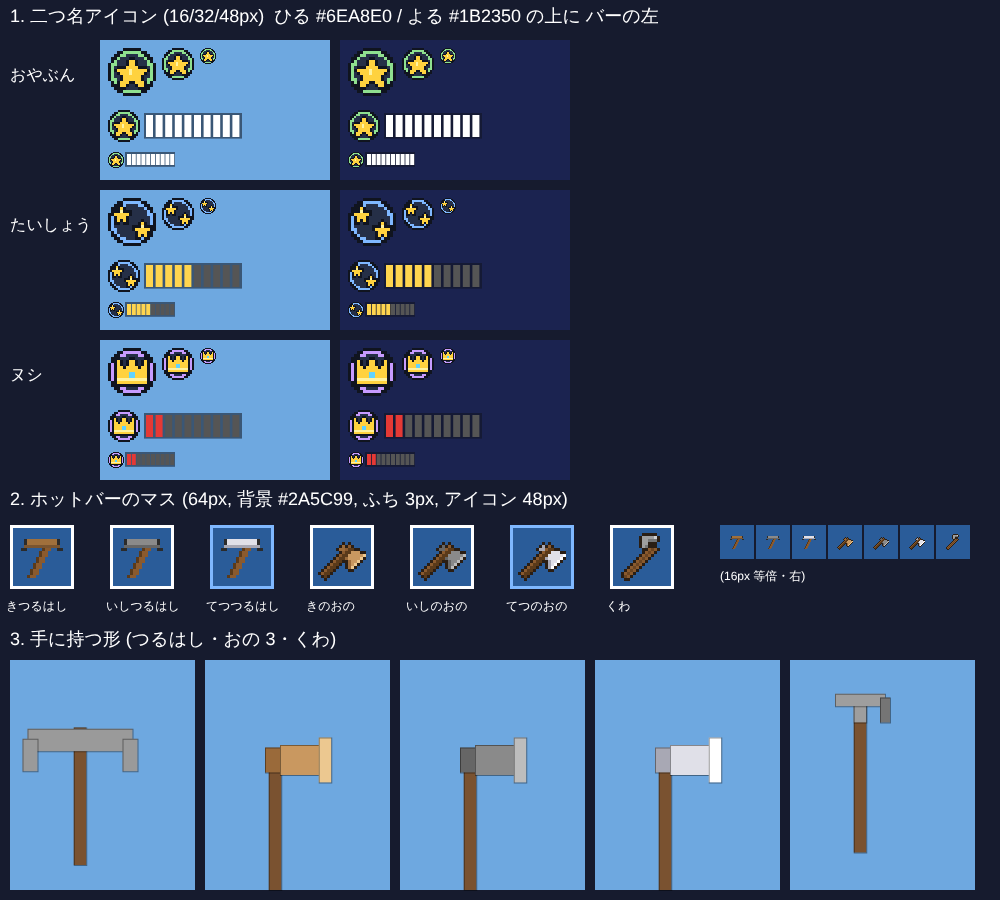
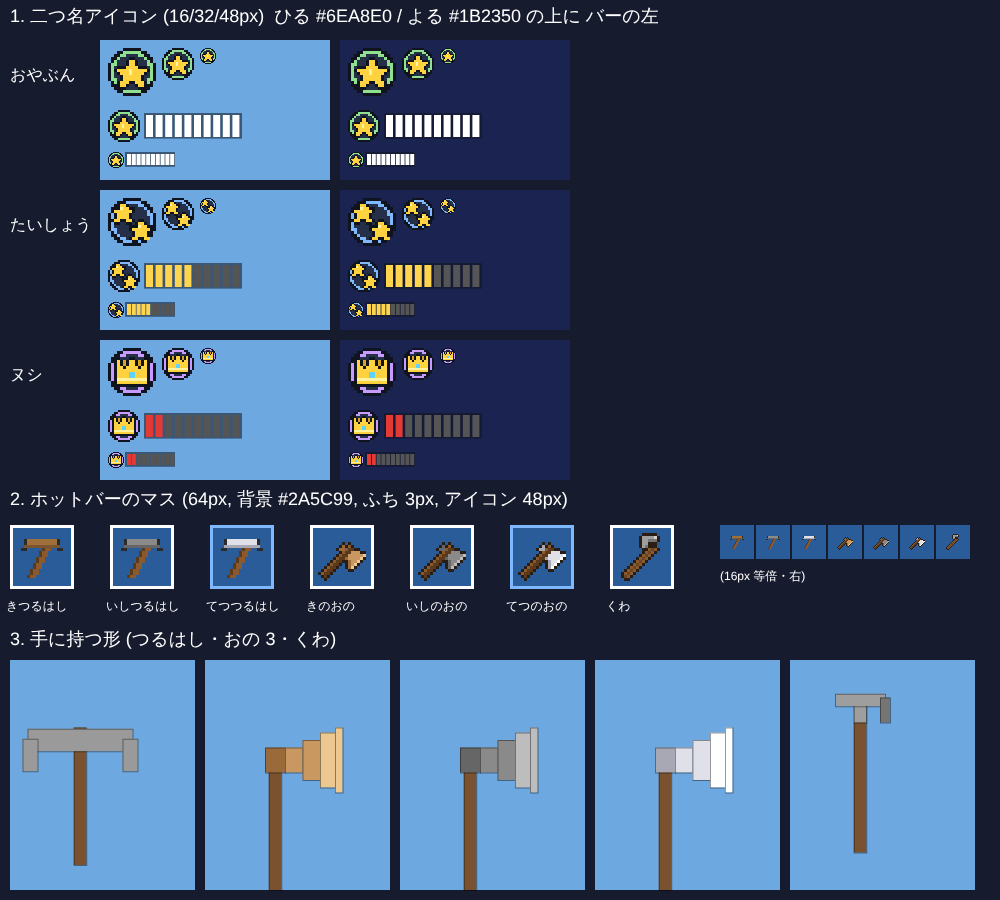
ART-BAL: レビュー指摘 A1-A3（かんむりのとげの間・たいしょうの星を大きく・おのの刃をくさびに）
Claude-Session: https://claude.ai/code/session_01SCqxFwiHtGmCBZxfDVkfL1

diff --git a/src/ui/itemArtBal.ts b/src/ui/itemArtBal.ts
@@ -54,18 +54,19 @@ const STAR1 = [
   '.KKK....KKK.',
 ];
 const STAR_S = [
-  '...K...',
-  '..KYK..',
-  'KKKLKKK',
-  'KYYYYYK',
-  '.KYYYK.',
-  '.KYKYK.',
-  '.KK.KK.',
+  '...KK...',
+  '..KYYK..',
+  'KKKLYYKK',
+  'KYYYYYYK',
+  '.KYYYYK.',
+  '.KYYYYK.',
+  'KYYKKYYK',
+  '.KK..KK.',
 ];
 const CROWN = [
   '.K...KK...K.',
-  'KYK.KYYK.KYK',
-  'KYK.KYYK.KYK',
+  'KYKDKYYKDKYK',
+  'KYKDKYYKDKYK',
   'KYYKYYYYKYYK',
   'KYYYYYYYYYYK',
   'KYYYYBBYYYYK',
@@ -74,7 +75,7 @@ const CROWN = [
   'KYYYYYYYYYYK',
   '.KKKKKKKKKK.',
 ];
-const GOLD = { K: INK, Y: 0xffd23f, L: 0xfff3a0, B: 0x5fd3ff };
+const GOLD = { K: INK, D: 0xd9a520, Y: 0xffd23f, L: 0xfff3a0, B: 0x5fd3ff };
 /** 内の ふちの色 = めずらしさ の色（緑・青・紫） */
 export const NICK_RING: Record<NickTier, number> = { oyabun: 0x8fe08f, taisho: 0x7fb8ff, nushi: 0xc79bff };
 
@@ -90,10 +91,13 @@ export function nickIconPixels(tier: NickTier): Rgba[] {
     }
   if (tier === 'oyabun') stamp(p, STAR1, 2, 3, GOLD);
   if (tier === 'taisho') {
-    stamp(p, STAR_S, 1, 2, GOLD);
-    stamp(p, STAR_S, 8, 7, GOLD);
+    stamp(p, STAR_S, 1, 1, GOLD);
+    stamp(p, STAR_S, 7, 7, GOLD);
   }
   if (tier === 'nushi') stamp(p, CROWN, 2, 3, GOLD);
+  // バッジの まるから はみ出た ドットは 消す
+  for (let y = 0; y < S; y++)
+    for (let x = 0; x < S; x++) if (Math.hypot(x + 0.5 - 8, y + 0.5 - 8) > 8.1) p[y * S + x] = CLEAR;
   return p;
 }
 

diff --git a/src/camera/heldAxes.ts b/src/camera/heldAxes.ts
@@ -1,5 +1,5 @@
 /**
- * おの 3 本の 手に持つ形（DESIGN 13.4）。箱 4 つ: え・みね・刃・刃先。
+ * おの 3 本の 手に持つ形（DESIGN 13.4）。箱 6 つ: え・みね・刃 2 段・刃先 2 段（前後に ひろがる くさび）。
  * 向き・Part の書き方は `heldTools.ts` と同じ（原点 = にぎった手、のびる向き = -Z、X = 横）。
  * つなぎこみは開発（#115）。
  */
@@ -20,11 +20,14 @@ const COL: Record<AxeId, { head: number; shade: number; edge: number }> = {
 
 function axe(id: AxeId): Part[] {
   const c = COL[id];
+  // かた刃のくさび: 刃の付け根（短い）→ 刃（前後に ひろがる）→ 刃先（いちばん長い）。前後は 先ほその 段
   return [
     { size: [0.05, 0.05, 0.55], pos: [0, 0, -0.175], color: WOOD },
     { size: [0.08, 0.07, 0.1], pos: [0, 0, -0.42], color: c.shade },
-    { size: [0.16, 0.04, 0.12], pos: [0.1, 0, -0.42], color: c.head },
-    { size: [0.05, 0.045, 0.18], pos: [0.2, 0, -0.42], color: c.edge },
+    { size: [0.07, 0.04, 0.1], pos: [0.075, 0, -0.42], color: c.head },
+    { size: [0.07, 0.04, 0.16], pos: [0.145, 0, -0.42], color: c.head },
+    { size: [0.06, 0.045, 0.22], pos: [0.21, 0, -0.42], color: c.edge },
+    { size: [0.03, 0.04, 0.26], pos: [0.255, 0, -0.42], color: c.edge },
   ];
 }
 

diff --git a/src/ui/itemArtBal.test.ts b/src/ui/itemArtBal.test.ts
@@ -16,7 +16,7 @@ describe('ART-BAL', () => {
       expect(px).toHaveLength(256);
       const solid = px.filter((q) => q[3] > 0);
       expect(solid.some((q) => hexOf(q) === 0x2a1e14)).toBe(true);
-      expect(AXE_HELD_PARTS[a]).toHaveLength(4);
+      expect(AXE_HELD_PARTS[a]).toHaveLength(6);
     }
   });
 });
